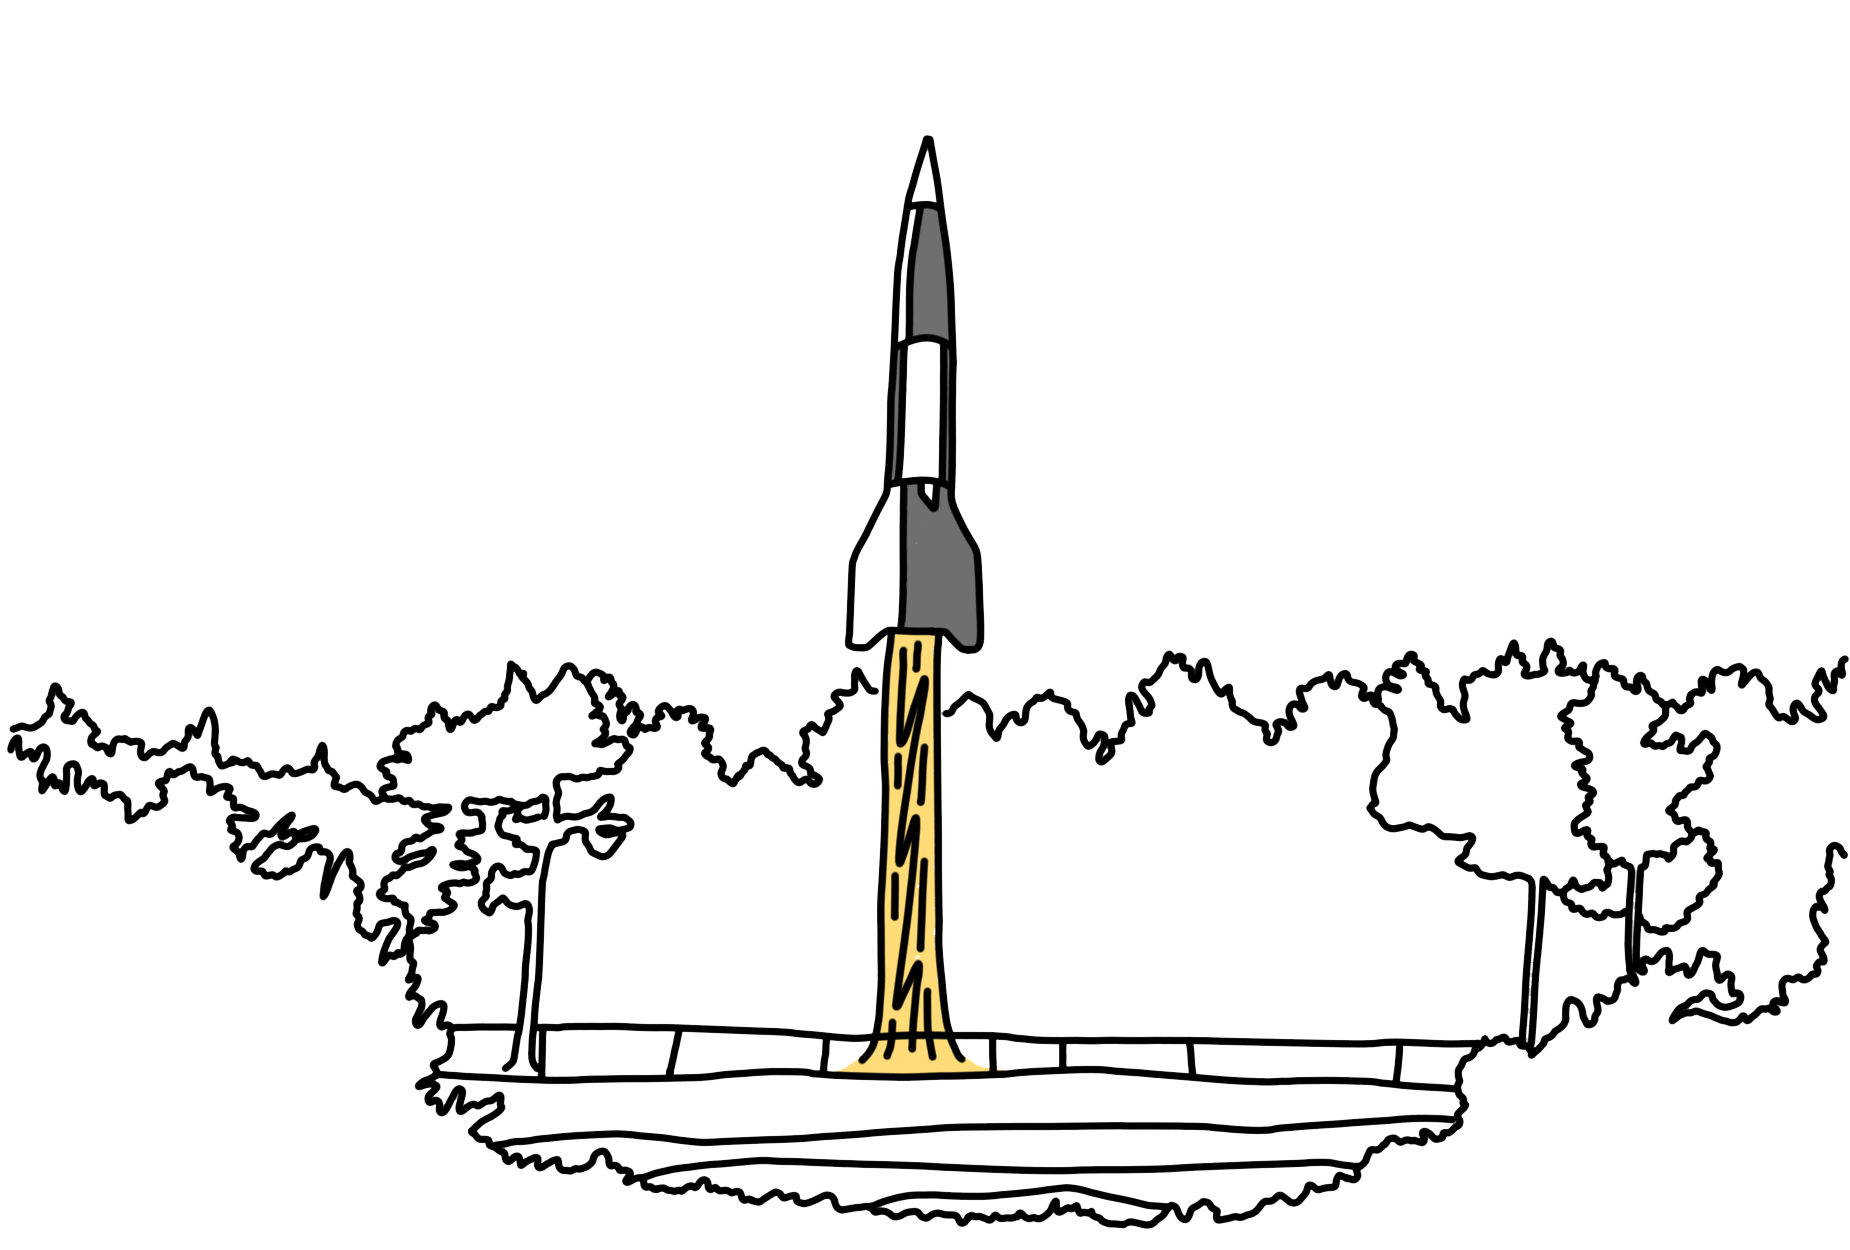
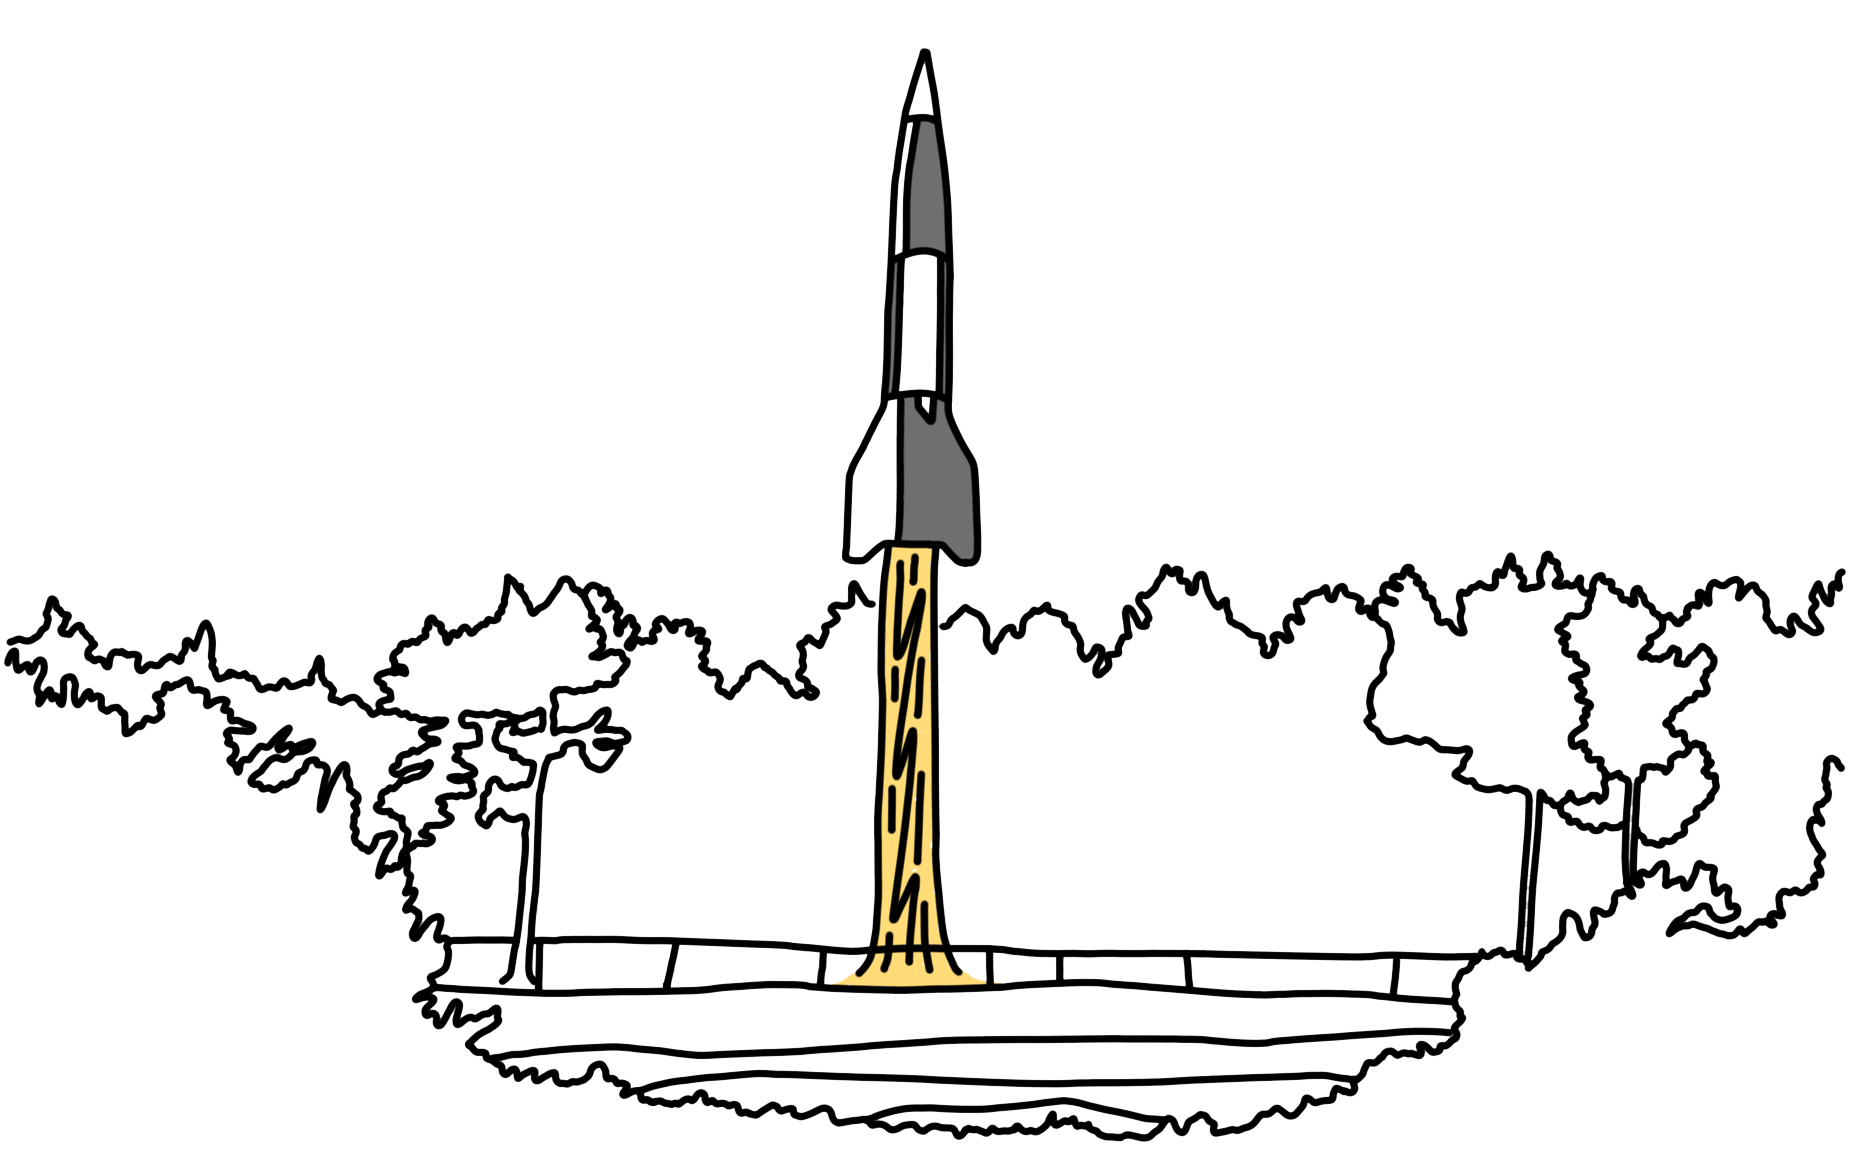
updated images final_final_V3

Changed region(s): [[0.0, 0.0304, 1.0, 1.0]]

diff --git a/index.html b/index.html
@@ -106,7 +106,7 @@
                 <div class="block__question"><p>Das kann doch gar nicht so schwer sein, oder?!</p></div>
               </div>
               <div class="block__image">
-                <img src="projects/img/wheel_classic.png" alt="simulator" class="block__img">
+                <img src="projects/img/wheel_hero.png" alt="simulator" class="block__img">
               </div>
               <div class="block__lower">
                 <div class="block__subhead"><p>Der große Eigenbau</p></div>
@@ -133,7 +133,7 @@
                 </div>
               </div>
               <div class="block__image">
-                <img src="img/key.png" alt="schlüssel" class="block__img">
+                <img src="blog/img/perfection-color.png" alt="schlüssel" class="block__img">
               </div>
               <div class="block__lower">
                 <div class="block__subhead"><p>Grundlegende Kompetenzen</p></div>
@@ -160,7 +160,7 @@
                 </div>
               </div>
               <div class="block__image">
-                <img src="projects/img/rocket.png" alt="simulator" class="block__img">
+                <img src="projects/img/v2-rocket.png" alt="simulator" class="block__img">
               </div>
               <div class="block__lower">
                 <div class="block__subhead"><p>Vergeltungswaffe 2</p></div>
